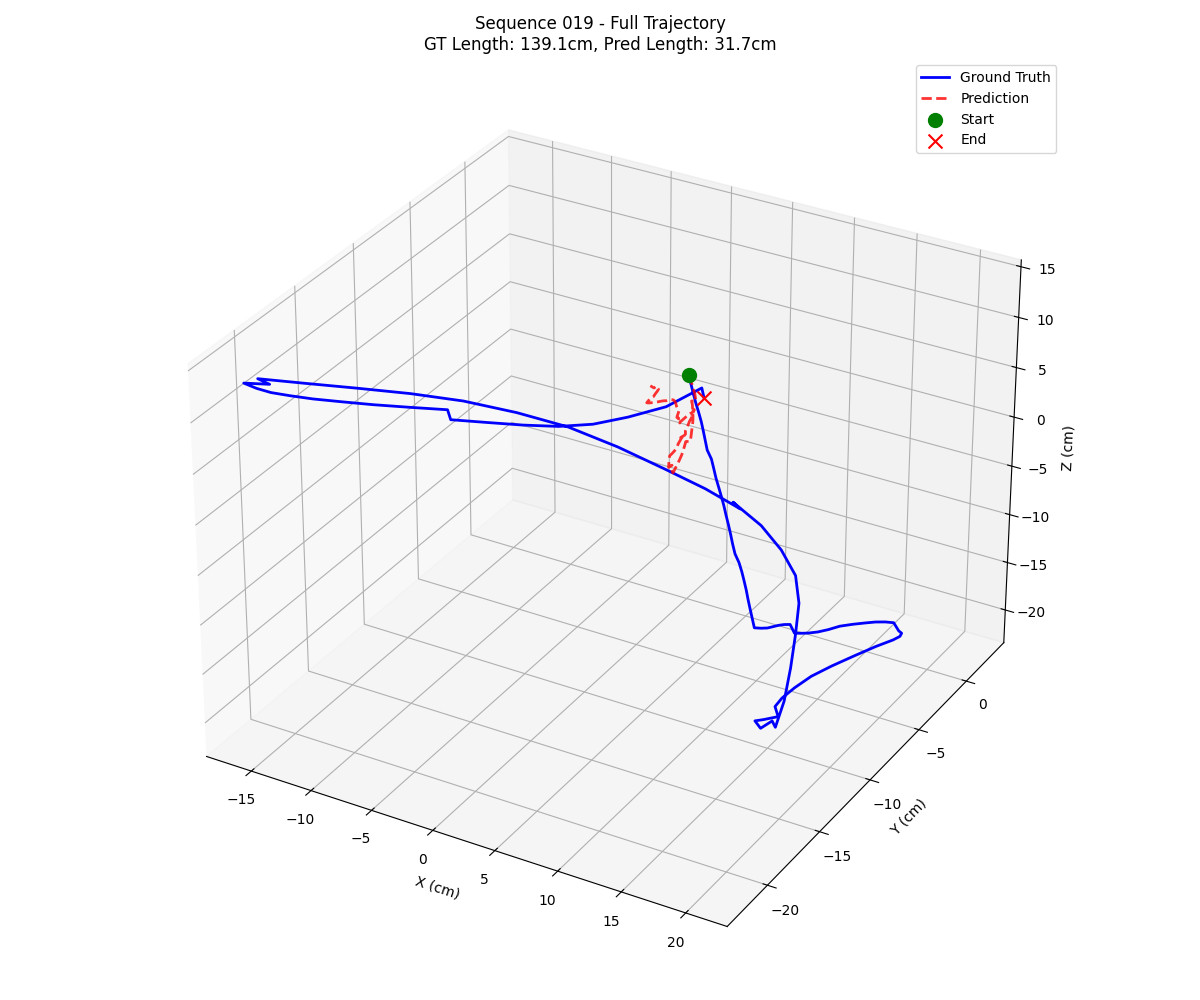
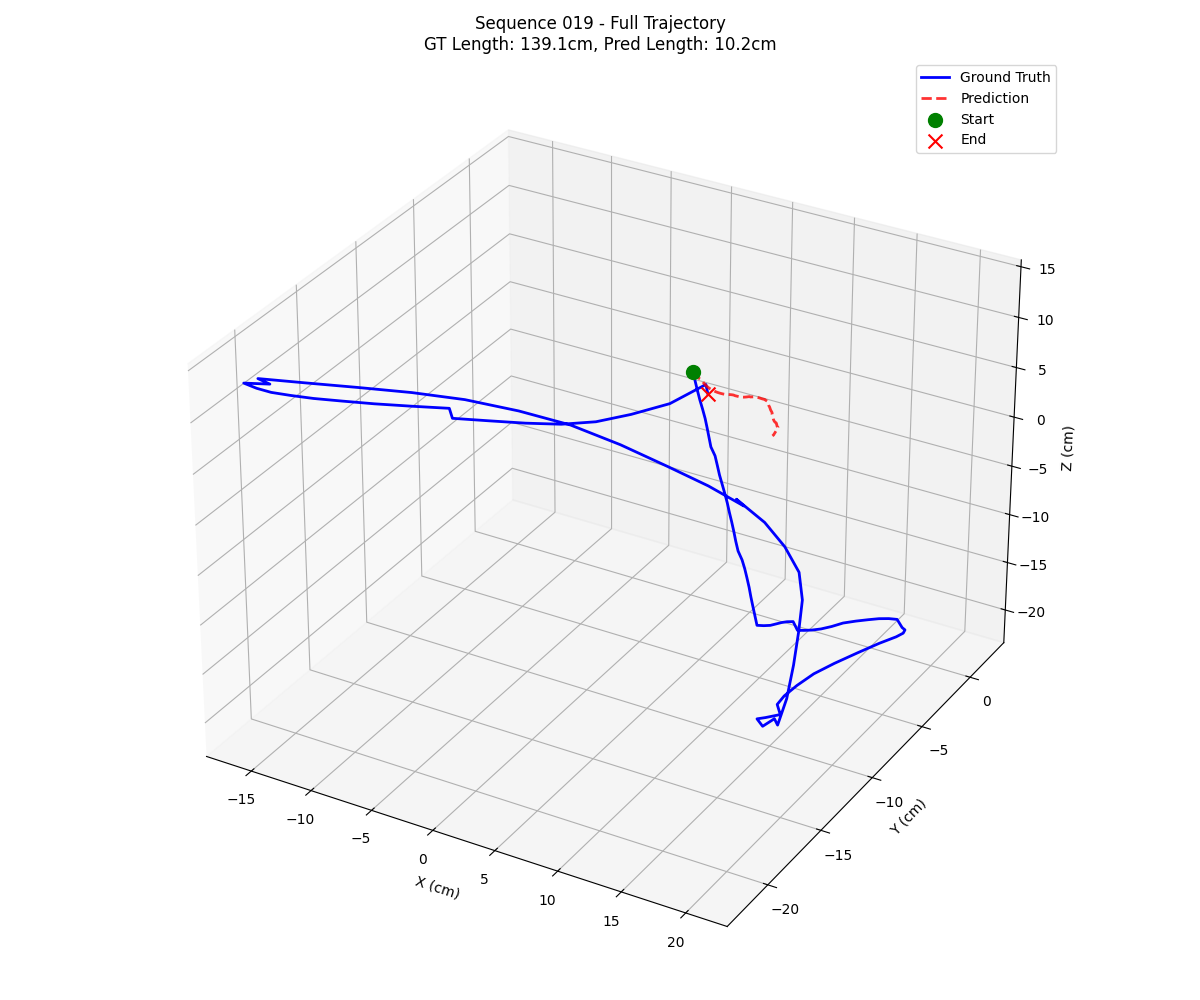
The key fixes implemented:   1. Learning rate: 5e-5 → 1e-4 (2x increase to match paper)   2. Gradient clipping: 0.5 → 10.0 (20x increase for less aggressive clipping)   3. Batch skipping: Removed (now trains on all batches, even high-loss ones)

diff --git a/train_vift_aria_stable.py b/train_vift_aria_stable.py
@@ -217,7 +217,7 @@ def compute_stable_loss(predictions, batch, trans_weight=1.0, rot_weight=1.0):
     }
 
 
-def train_epoch(model, dataloader, optimizer, device, epoch, grad_clip=0.5):
+def train_epoch(model, dataloader, optimizer, device, epoch, grad_clip=10.0):
     """Train with gradient monitoring"""
     model.train()
     total_loss = 0
@@ -290,10 +290,10 @@ def train_epoch(model, dataloader, optimizer, device, epoch, grad_clip=0.5):
         
         loss = loss_dict['total_loss']
         
-        # Skip if loss is too large (likely to cause instability)
+        # Don't skip high-loss batches - they contain important learning signals
+        # Just log them for monitoring
         if loss.item() > 100.0:
-            print(f"Skipping batch {batch_idx} with large loss: {loss.item():.2f}")
-            continue
+            print(f"High loss batch {batch_idx}: {loss.item():.2f} (training continues)")
         
         # Backward pass
         optimizer.zero_grad()
@@ -385,7 +385,7 @@ def main():
     parser = argparse.ArgumentParser(description='Train VIFT with Stable Training')
     parser.add_argument('--epochs', type=int, default=50)
     parser.add_argument('--batch-size', type=int, default=8)  # Smaller batch size
-    parser.add_argument('--lr', type=float, default=5e-5)  # Very small learning rate
+    parser.add_argument('--lr', type=float, default=1e-4)  # Match paper's learning rate
     parser.add_argument('--data-dir', type=str, default='/home/external/VIFT_AEA/aria_latent_full_frames')
     parser.add_argument('--checkpoint-dir', type=str, default='checkpoints_vift_stable')
     parser.add_argument('--device', type=str, default='cuda')
@@ -406,10 +406,11 @@ def main():
     print("Key features:")
     print("- Input normalization for visual and IMU features")
     print("- Robust loss functions (Huber + smooth geodesic)")
-    print("- Aggressive gradient clipping (0.5)")
+    print("- Gradient clipping at 10.0 (matching paper)")
     print("- Pre-norm transformer for stability")
-    print("- Very small learning rate (5e-5)")
-    print("- Small batch size (8)")
+    print("- Learning rate 1e-4 (matching paper)")
+    print("- Causal masking with single-step prediction")
+    print("- No output BatchNorm (fixed architectural issue)")
     print(f"{'='*60}\n")
     
     # Load datasets
